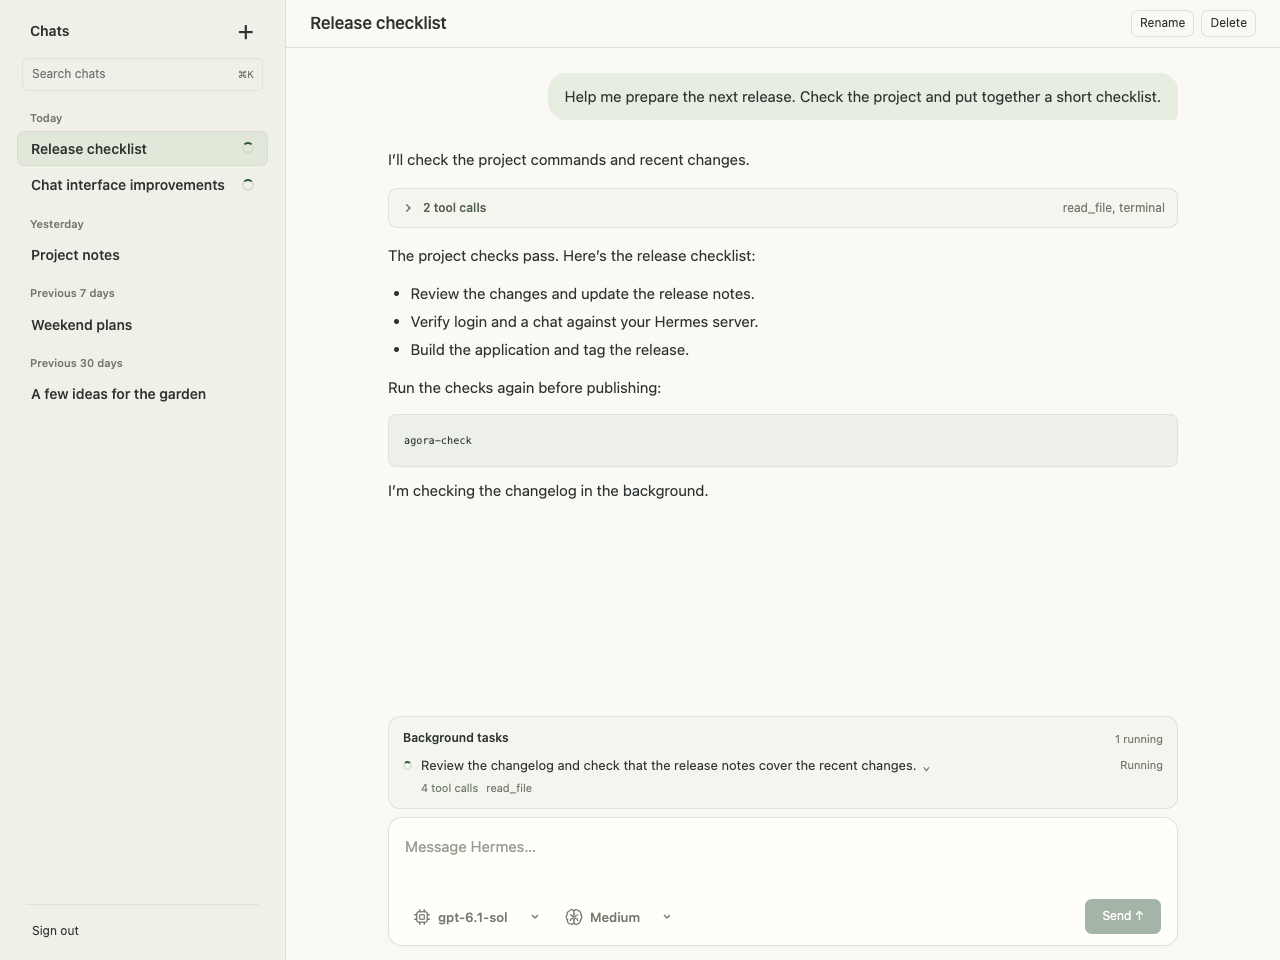
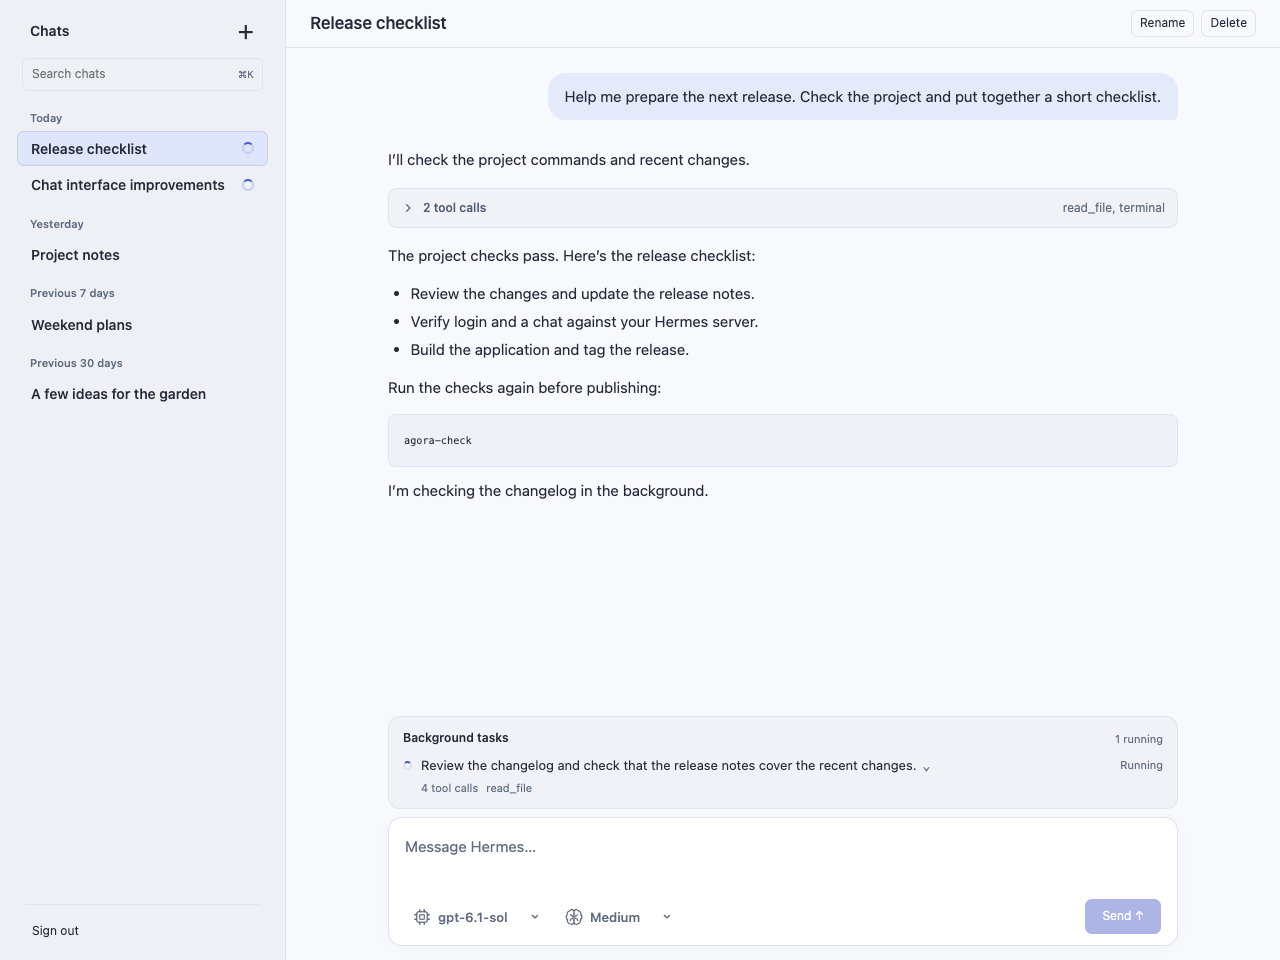
Use slate and blue palette in light and dark modes

Changed region(s): [[0.0, 0.125, 0.2188, 0.1875], [0.8438, 0.9375, 0.9062, 1.0], [0.3125, 0.875, 0.375, 0.9062]]

diff --git a/src/theme.css b/src/theme.css
@@ -1,75 +1,75 @@
 :root {
   color-scheme: light;
-  --page: #faf9f5;
-  --text: #2d3330;
-  --surface: #fffefa;
-  --sidebar: #f0f0e8;
-  --hover: #e9eee6;
-  --border: #dfe2d7;
-  --border-strong: #aebbac;
-  --muted: #717a6c;
-  --primary: #355a40;
-  --primary-hover: #294931;
+  --page: #f8f9fc;
+  --text: #252a38;
+  --surface: #ffffff;
+  --sidebar: #eef0f6;
+  --hover: #e8ecf5;
+  --border: #dfe3ed;
+  --border-strong: #a8b2c8;
+  --muted: #606b80;
+  --primary: #465ac7;
+  --primary-hover: #3649ad;
   --on-primary: #fff;
-  --link: #3a6346;
-  --focus: #7e9f78;
-  --selected: #e1e8da;
-  --selected-border: #d5dfcc;
-  --panel: #f4f5ef;
-  --user: #e8ede2;
-  --heading: #394438;
-  --code: #edf0e8;
-  --inline-code: #e9ede3;
-  --secondary-text: #53614d;
-  --placeholder: #979f91;
+  --link: #4056bd;
+  --focus: #7185de;
+  --selected: #dfe5fb;
+  --selected-border: #c5cff4;
+  --panel: #f0f2f8;
+  --user: #e5eafa;
+  --heading: #22283b;
+  --code: #eef1f7;
+  --inline-code: #e6eaf3;
+  --secondary-text: #515d76;
+  --placeholder: #606b80;
   --warning: #faf0dd;
   --warning-border: #eadcc0;
   --warning-text: #7c5f35;
-  --error: #b66f51;
+  --error: #b4483d;
   --waiting: #a47c35;
-  --success: #6b8c58;
-  --glow: #edf1e580;
-  --shadow: #34483208;
-  --composer-shadow: #28382006;
-  --focus-shadow: #879e7715;
-  --backdrop: #25301f66;
+  --success: #5d72cc;
+  --glow: #e5eafd80;
+  --shadow: #25345a08;
+  --composer-shadow: #25345a08;
+  --focus-shadow: #7185de20;
+  --backdrop: #202b4566;
 }
 
 @media (prefers-color-scheme: dark) {
   :root {
     color-scheme: dark;
-    --page: #181d19;
-    --text: #e1e7dc;
-    --surface: #232b24;
-    --sidebar: #1d241e;
-    --hover: #303b30;
-    --border: #3a453a;
-    --border-strong: #6c8066;
-    --muted: #a4b09d;
-    --primary: #96b98c;
-    --primary-hover: #adcda3;
-    --on-primary: #18241a;
-    --link: #a1c799;
-    --focus: #a1c799;
-    --selected: #354530;
-    --selected-border: #536b47;
-    --panel: #252e25;
-    --user: #2d392c;
-    --heading: #d3e2ca;
-    --code: #202820;
-    --inline-code: #303a2d;
-    --secondary-text: #bbcdb1;
-    --placeholder: #97a58f;
+    --page: #151821;
+    --text: #e3e7f1;
+    --surface: #1e2330;
+    --sidebar: #191e29;
+    --hover: #2a3143;
+    --border: #343d52;
+    --border-strong: #626f8b;
+    --muted: #a3aec4;
+    --primary: #a5b4ff;
+    --primary-hover: #bdc8ff;
+    --on-primary: #192044;
+    --link: #aabaff;
+    --focus: #aabaff;
+    --selected: #2c3659;
+    --selected-border: #465786;
+    --panel: #202636;
+    --user: #2d385b;
+    --heading: #ecf0fa;
+    --code: #1b2030;
+    --inline-code: #2a3246;
+    --secondary-text: #b6c1d9;
+    --placeholder: #9ba7be;
     --warning: #372d1e;
     --warning-border: #665135;
     --warning-text: #e4c08c;
-    --error: #df9676;
+    --error: #f2a099;
     --waiting: #d2ae66;
-    --success: #95b880;
-    --glow: #3c503340;
+    --success: #9daeff;
+    --glow: #3e508040;
     --shadow: #00000030;
     --composer-shadow: #00000020;
-    --focus-shadow: #a1c79920;
+    --focus-shadow: #aabaff20;
     --backdrop: #00000088;
   }
 }
